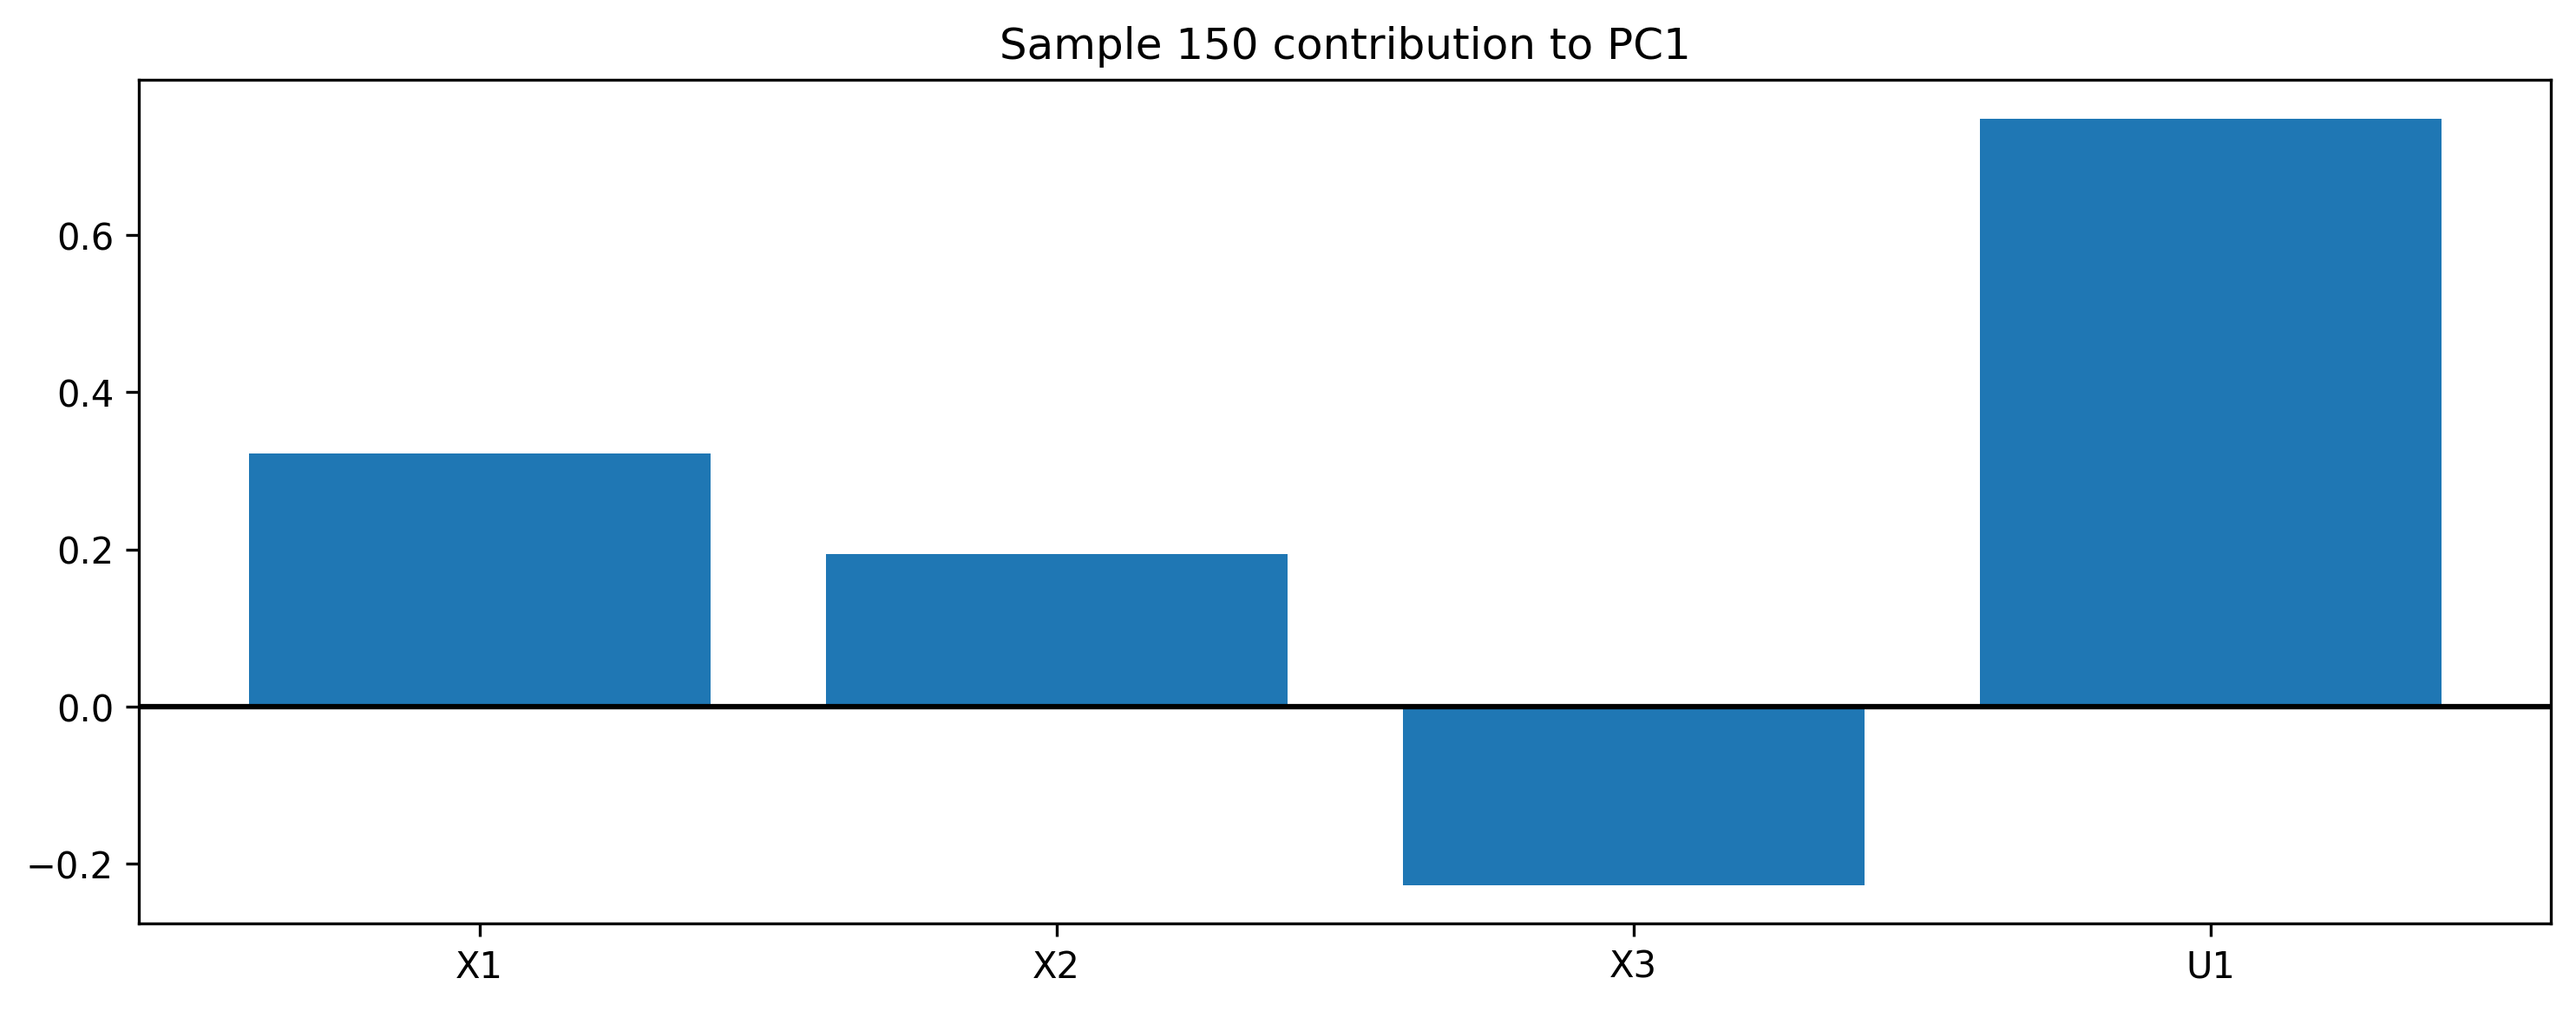
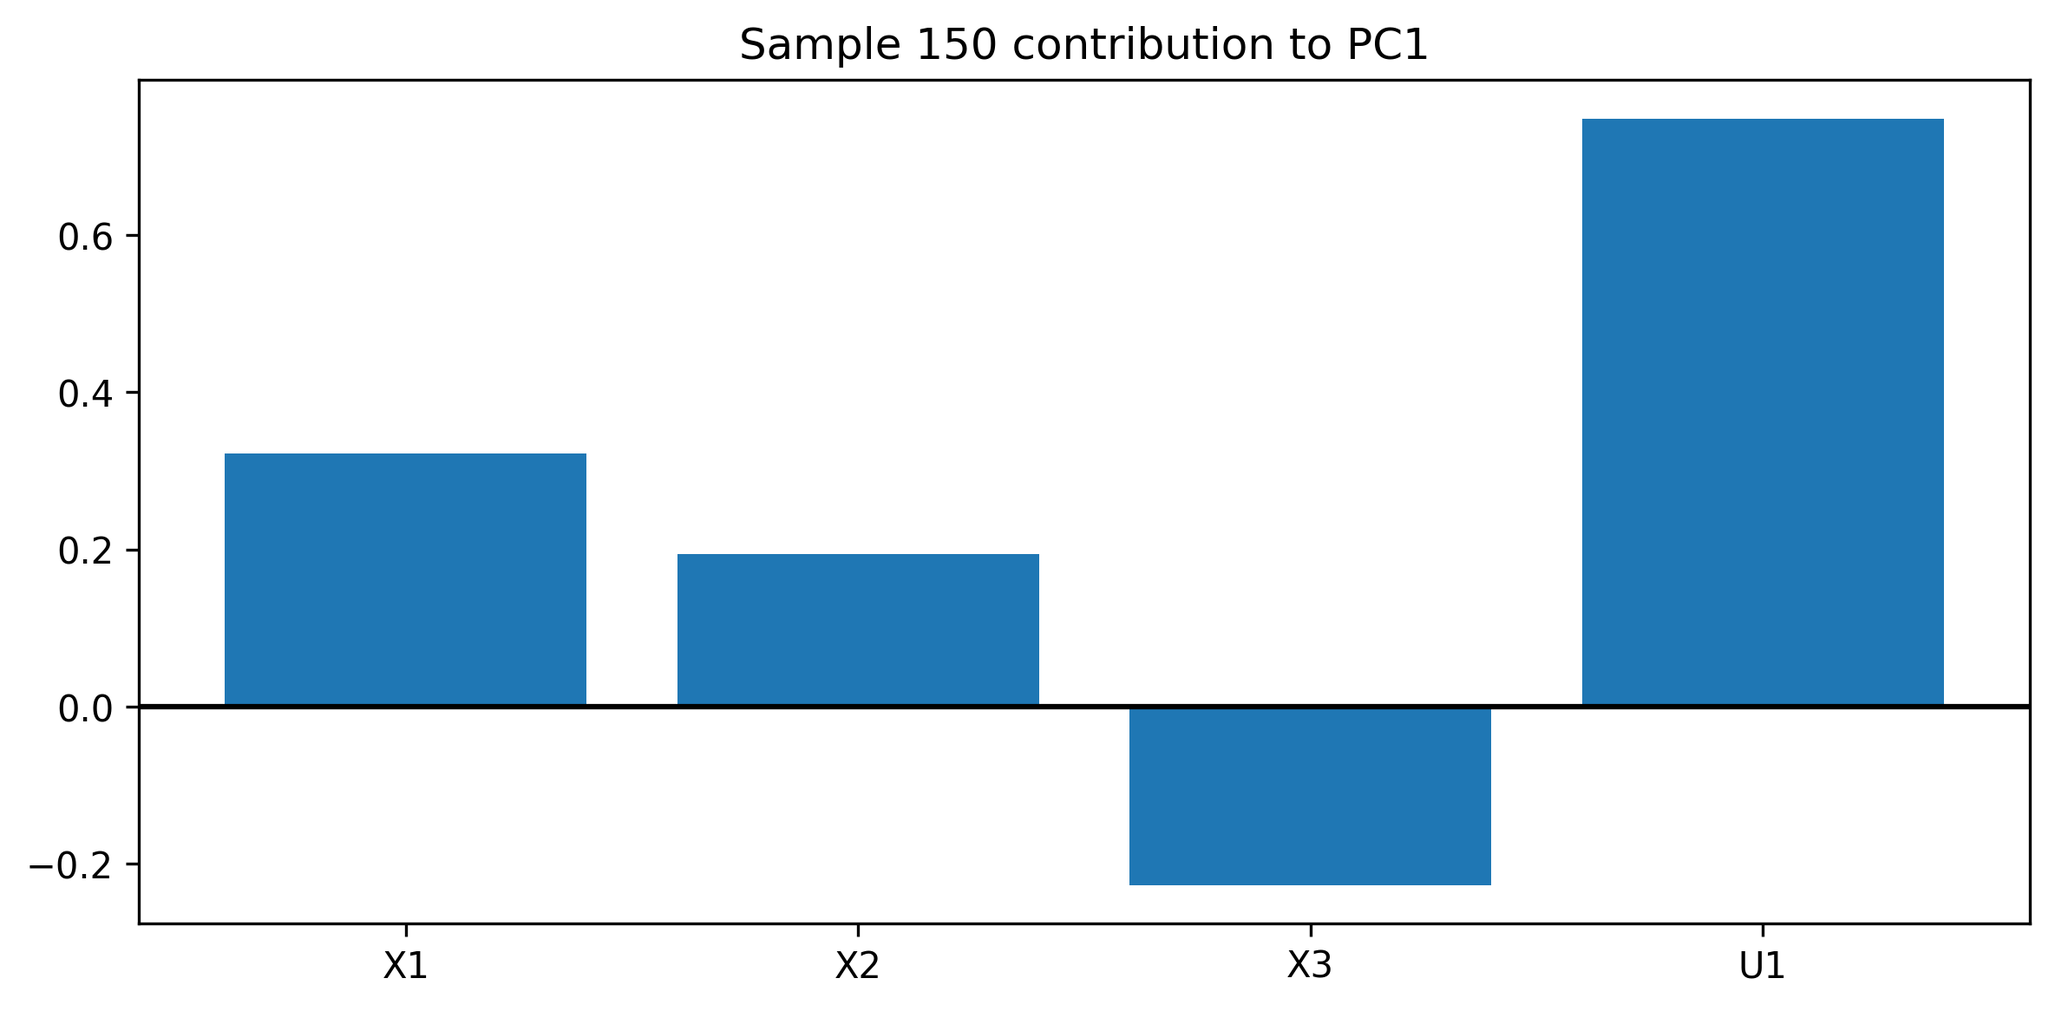
added linear matrix inequality infinite horizon mpc

diff --git a/examples/lmi_mpc_example.py b/examples/lmi_mpc_example.py
@@ -1,0 +1,217 @@
+import numpy as np
+import cvxpy as cp
+import matplotlib.pyplot as plt
+import sys
+sys.path.append('/Users/emil/Documents/GitHub/apc')
+
+def robust_linear_mpc( state_x , A , B , Q , R ):
+
+    Q_sqrt = np.linalg.cholesky(Q)
+    R_sqrt = np.linalg.cholesky(R)
+
+    # Current state x(k|k)
+    xk = state_x
+
+    # Decision variables
+    n = A.shape[0]
+    m = B.shape[1]
+    
+    XU = cp.Variable((m, m), symmetric=True)
+    QU = cp.Variable((n, n), PSD=True)
+    
+    Y = cp.Variable((m, n))
+    gamma = cp.Variable(nonneg=True)
+
+    C1 = cp.bmat([
+        [cp.Constant([[1.0]]), xk.reshape(1, -1)],
+        [xk.reshape(-1, 1), QU]
+    ])
+    
+    C2 = cp.bmat([
+        [XU, Y],
+        [Y.T, QU] 
+    ])
+    
+    # 11 by 11 matrix
+    row1 = [QU, QU @ A.T + Y.T @ B.T, QU @ Q_sqrt, Y.T @ R_sqrt]
+    
+    row2 = [A @ QU + B @ Y, QU, cp.Constant(np.zeros((n, n))), cp.Constant(np.zeros((n, m)))]
+    
+    row3 = [Q_sqrt @ QU, cp.Constant(np.zeros((n, n))), gamma * np.eye(n), cp.Constant(np.zeros((n, m)))]
+    
+    row4 = [R_sqrt @ Y, cp.Constant(np.zeros((m, n))), cp.Constant(np.zeros((m, n))), gamma * np.eye(m)]
+    
+    LMI = cp.bmat([row1, row2, row3, row4])
+    
+    u_max = 1 # |u| <= u_max
+    
+    # Collection of constraints
+    constraints = [
+        C1 >> 0,
+        C2 >> 0,
+        LMI >> 0,
+        -XU[0,0] >= - u_max**2
+    ]
+
+    # Objective
+    objective = cp.Minimize(gamma)
+
+    # Solve
+    prob = cp.Problem(objective, constraints)
+    prob.solve(solver=cp.CVXOPT)  # Try also 'CVXOPT', 'MOSEK' if installed
+
+    # Output
+    if prob.status == cp.OPTIMAL:
+        print(f" Optimal γ: {gamma.value:.4f}")
+        print("QU matrix:\n", QU.value)
+        print("Y matrix:\n", Y.value)
+        print("X matrix:\n", XU.value)
+    else:
+        print(f" Optimization failed: {prob.status}")
+        
+    QU_inv = np.linalg.inv(QU.value)
+    
+    print("QU_inv : " , QU_inv)
+    
+    L = Y.value@QU_inv
+    
+    control_u = L@state_x
+    
+    new_state_x = A@state_x + B@control_u
+    
+    return new_state_x, control_u
+
+
+###############################################################################
+###############################################################################
+###############################################################################
+
+A = np.array([
+    [0.9, 0.1, 0.0],
+    [0.0, 0.8, 0.2],
+    [0.0, 0.0, 0.7]
+])
+
+A = np.array(A)
+n = A.shape[0]
+
+# Define the symmetric positive definite matrix P
+P = cp.Variable((n, n), symmetric=True)
+
+# Define the LMI: A^T P + P A < 0
+LMI = A.T @ P + P @ A
+
+# Constraints
+constraints = [
+    P >> 1e-6 * np.eye(n),  # P > 0 (positive definite)
+    LMI << -1e-6 * np.eye(n)  # Lyapunov inequality (strict negative definite)
+]
+
+# Objective (optional): minimize trace(P) for numerical regularity
+objective = cp.Minimize(cp.trace(P))
+
+# Problem setup
+prob = cp.Problem(objective, constraints)
+
+# Solve it
+prob.solve(solver=cp.SCS)  # Or use 'CVXOPT' / 'MOSEK' if installed
+
+# Check and print results
+if prob.status == cp.OPTIMAL:
+    print("LMI is feasible. P:")
+    print(P.value)
+else:
+    print("LMI problem is not feasible:", prob.status)
+
+###############################################################################
+###############################################################################
+###############################################################################
+
+# =========================
+# EXAMPLE LMI RMPC LOOP
+# =========================
+
+# System (example: double integrator)
+A = np.array([
+    [0.9, 0.1, 0.0],
+    [0.0, 0.8, 0.2],
+    [0.0, 0.0, 0.7]
+])
+
+B = np.array([[0.1], [0.05], [0.02]])
+
+n = A.shape[0]
+m = B.shape[1]
+
+Q = np.eye(n)
+R = 0.1 * np.eye(m)
+
+# Initial state
+x = np.array([2.0, 0.0, 5.0])
+
+x_history = [x.copy()]
+u_history = []
+
+sim_steps = 100
+np.random.seed(42)
+
+for k in range(sim_steps):
+
+    x, u = robust_linear_mpc(x, A, B, Q, R)
+    # Save control
+    u_history.append(u.copy())
+    
+    # System update
+    if k == 40:
+        bias = np.array([0.2, -0.3, -0.4])
+        noise_std = 0.01
+        added_noise = noise_std * np.random.randn(3) + bias
+        x = x + added_noise
+    else:
+        noise_std = 0.01
+        added_noise = noise_std * np.random.randn(3)
+        x = x + added_noise
+        
+    #no kalman filter
+    x_history.append(x.copy())
+    #print(f"Step {k}, state: {x}, control: {u}")
+
+# Convert to arrays
+x_history = np.array(x_history)
+u_history = np.array(u_history)
+
+
+t = np.arange(len(x_history[:,0]))  # time index
+
+plt.figure(figsize=(14, 8))  # bigger and clearer
+
+# ----------------------------
+# OUTPUT COMPARISON
+# ----------------------------
+
+plt.subplot(2,1,1)
+
+plt.plot(t, x_history[:,0], '--', label="state 1", linewidth=2)
+plt.plot(t, x_history[:,1], '--', label="state 2", linewidth=2)
+plt.plot(t, x_history[:,2], '--', label="state 3", linewidth=2)
+
+plt.title("LMI-based infinite horizon MPC input and states with added Gaussian noise", fontsize=14)
+plt.ylabel("Output", fontsize=12)
+plt.legend()
+plt.grid()
+
+# ----------------------------
+# INPUT SIGNAL
+# ----------------------------
+plt.subplot(2,1,2)
+
+plt.plot(t[0:-1], u_history[:,0], label="MPC Input (u)", linewidth=2)
+
+plt.xlabel("Time step", fontsize=12)
+plt.ylabel("MPC Input", fontsize=12)
+plt.title("MPC Input Signal", fontsize=14)
+plt.grid()
+
+plt.tight_layout()
+plt.show()
+

diff --git a/examples/steady_state_MPC_PCA_monitoring_example.py b/examples/steady_state_MPC_PCA_monitoring_example.py
@@ -370,7 +370,7 @@ i_fault = 150
 variables = ['X1', 'X2', 'X3', 'U1']
 contrib = calibration_autoscaled_monitored_data[i_fault, :] * calibration_P[:, 0] * 1/np.sqrt(eigvals[0])
 
-plt.figure(figsize=(10,4))
+plt.figure(figsize=(8,4))
 plt.bar(range(len(contrib)), contrib)
 plt.axhline(0, color='k')
 plt.xticks(range(len(contrib)), variables)
@@ -380,7 +380,7 @@ plt.show()
 
 contrib = calibration_autoscaled_monitored_data[i_fault, :] * calibration_P[:, 1] * 1/np.sqrt(eigvals[1])
 
-plt.figure(figsize=(10,4))
+plt.figure(figsize=(8,4))
 plt.bar(range(len(contrib)), contrib)
 plt.axhline(0, color='k')
 plt.xticks(range(len(contrib)), variables)
